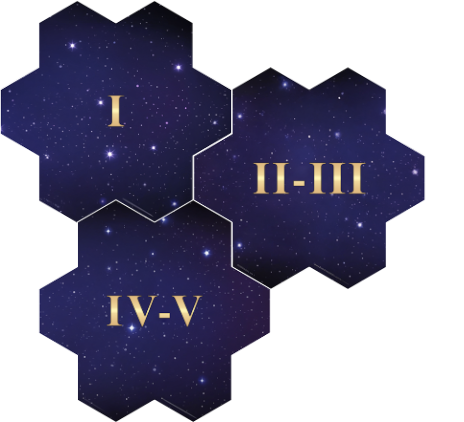
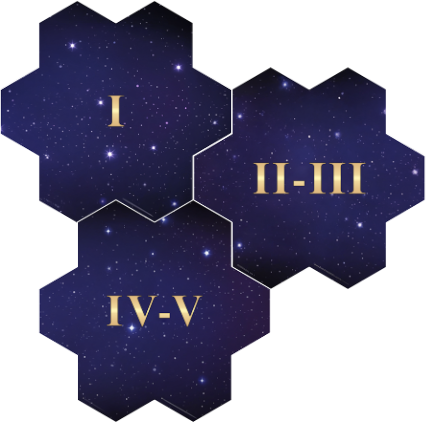
Make map tiles great again

diff --git a/draft-scenarios/clash/controlled_chaos.tex b/draft-scenarios/clash/controlled_chaos.tex
@@ -111,12 +111,12 @@ If no player has achieved an immediate victory, the player with the most Victory
 \end{itemize}
 
 \begin{center}
+  \vfill
   \includegraphics[width=0.7\linewidth]{\maps/controlled-chaos.png}
   \captionof{figure}{\textbf{STARTING ISLANDS}}
-
-  \hspace*{1em}\includegraphics[width=0.8\linewidth]{\maps/controlled-chaos-center.png}
-  %\vspace*{-1em}
-  \hspace*{-4em}\captionof{figure}{\textbf{CENTER ISLAND}}
+  \vfill
+  \includegraphics[width=0.7\linewidth]{\maps/controlled-chaos-center.png}
+  \captionof{figure}{\textbf{CENTER ISLAND}}
 \end{center}
 
 \end{multicols*}
